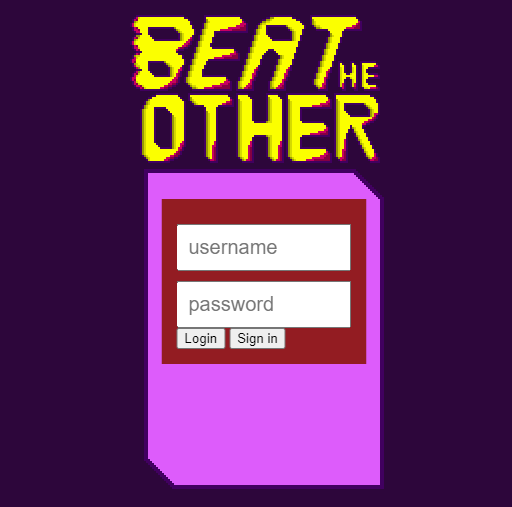
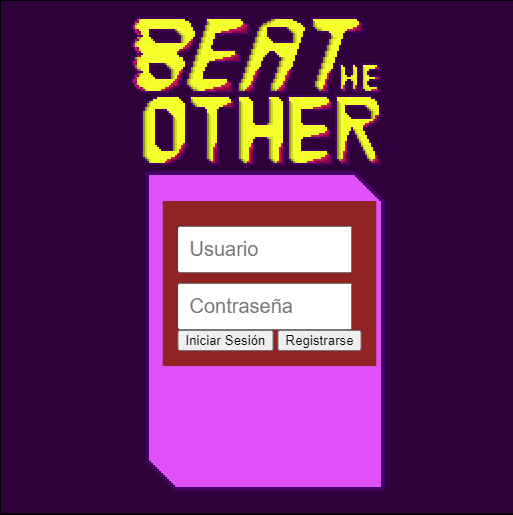
Cambio a español y capturas

Changed region(s): [[0.0, 0.0296, 1.0, 1.0], [0.6875, 0.3254, 0.7188, 0.355], [0.0, 0.0, 0.0312, 0.0296]]

diff --git a/src/html/registro.html b/src/html/registro.html
@@ -39,15 +39,15 @@
     </head>
     <body>
         <form id="input-form" style= "overflow: visible">
-            <input type="text" name="username" id="utext" placeholder="username" />
+            <input type="text" name="username" id="utext" placeholder="Usuario" />
 
-            <input type="text" name="nickname" id="unickname" placeholder="nickname" />
+            <input type="text" name="nickname" id="unickname" placeholder="Apodo" />
             
-            <input type="password" name="password" id="upassword" placeholder="password" />
+            <input type="password" name="password" id="upassword" placeholder="Contraseña" />
 
-            <button type="button" name="back" id="uback">Back</button>
+            <button type="button" name="back" id="uback">Atrás</button>
             
-            <button type="button" name="sign_in" id="usign_in">Sign in</button>
+            <button type="button" name="sign_in" id="usign_in">Registrarse</button>
         </form>
     </body>
 </html>

diff --git a/src/html/login.html b/src/html/login.html
@@ -31,13 +31,13 @@
     </head>
     <body>
         <form id="input-form" style= "overflow: visible">
-            <input type="text" name="username" id="utext" placeholder="username" />
+            <input type="text" name="username" id="utext" placeholder="Usuario" />
             
-            <input type="password" name="password" id="upassword" placeholder="password" />
+            <input type="password" name="password" id="upassword" placeholder="Contraseña" />
 
-            <button type="button" name="login" id="ulogin">Login</button>
+            <button type="button" name="login" id="ulogin">Iniciar Sesión</button>
             
-            <button type="button" name="sign_in" id="usign_in">Sign in</button>
+            <button type="button" name="sign_in" id="usign_in">Registrarse</button>
         </form>
     </body>
 </html>
